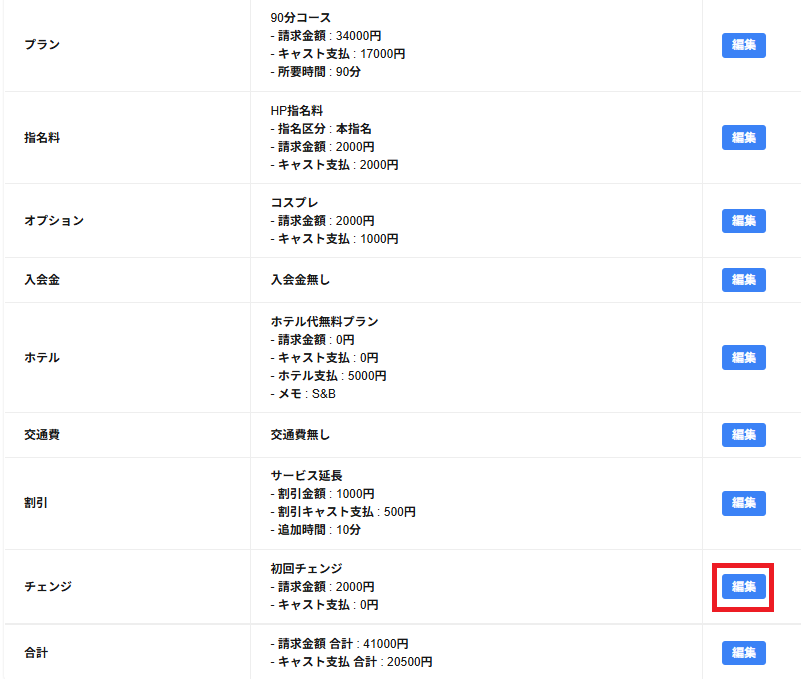
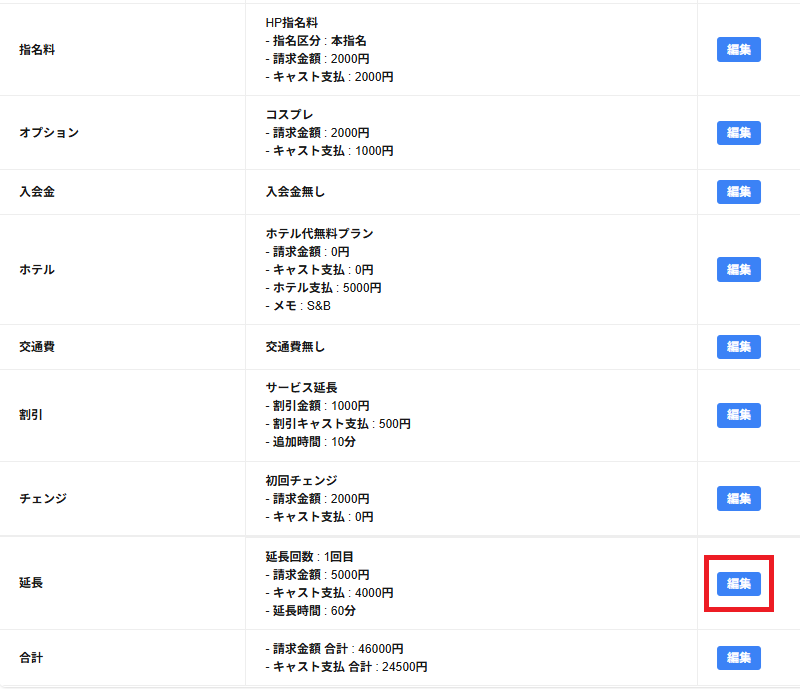
予約接客詳細完了

diff --git a/docs/list/booking_attend_list/detail/2/index.html b/docs/list/booking_attend_list/detail/2/index.html
@@ -11,7 +11,7 @@
 <p></p>
 <p></p>
 <p>・キャスト</p>
-<p><a href="/list/booking_attend_list/cast">キャスト詳細画面が表示されます。</a></p>
+<p><a href="list/booking_attend_list/cast">キャスト詳細画面が表示されます。</a></p>
 <p>予約・接客のキャストの編集と開始日付/時刻と終了日付/時刻の編集ができます。</p>
 <p></p>
 <p>※未選択 予約の場合は編集の列に割当と表示されます。</p>
@@ -19,72 +19,72 @@
 <p></p>
 <p></p>
 <p>・顧客</p>
-<p><a href="/list/booking_attend_list/customer">顧客編集が表示されます。</a></p>
+<p><a href="list/booking_attend_list/customer">顧客編集が表示されます。</a></p>
 <p>顧客の追加と編集をすることができます。</p>
 <p></p>
 <p></p>
 <p>・予約方法</p>
-<p><a href="/list/booking_attend_list/apply">予約方法編集が表示されます。</a></p>
+<p><a href="list/booking_attend_list/apply">予約方法編集が表示されます。</a></p>
 <p>予約方法 を編集することができます。</p>
 <p></p>
 <p></p>
 <p>・支払方法</p>
-<p><a href="/list/booking_attend_list/payment">支払方法編集が表示されます。</a></p>
+<p><a href="list/booking_attend_list/payment">支払方法編集が表示されます。</a></p>
 <p>支払方法を編集することができます。</p>
 <p>※店舗情報で支払い方法を未使用にしている場合は、支払方法の項目は表示されません。</p>
 <p></p>
 <p></p>
 <p>・プラン</p>
-<p><a href="/list/booking_attend_list/plan">プラン編集が表示されます。</a></p>
+<p><a href="list/booking_attend_list/plan">プラン編集が表示されます。</a></p>
 <p>プランを編集することができます。</p>
 <p></p>
 <p></p>
 <p>・指名料</p>
-<p><a href="/list/booking_attend_list/reservation">指名料編集が表示されます。</a></p>
+<p><a href="list/booking_attend_list/reservation">指名料編集が表示されます。</a></p>
 <p>指名料を編集することができます。</p>
 <p></p>
 <p></p>
 <p>・オプション</p>
-<p><a href="/list/booking_attend_list/option">オプション編集が表示されます。</a></p>
+<p><a href="list/booking_attend_list/option">オプション編集が表示されます。</a></p>
 <p>オプションを編集することができます。</p>
 <p></p>
 <p></p>
 <p>・入会金</p>
-<p><a href="/list/booking_attend_list/joining">入会金編集が表示されます。</a></p>
+<p><a href="list/booking_attend_list/joining">入会金編集が表示されます。</a></p>
 <p>入会金を編集することができます。</p>      
 <p>※店舗情報で入会金を未使用にしている場合は、入会金の項目は表示されません。</p>           
 <p></p>
 <p></p>
 <p>・ホテル</p>
-<p><a href="/list/booking_attend_list/hotel">ホテル編集が表示されます。</a></p>
+<p><a href="list/booking_attend_list/hotel">ホテル編集が表示されます。</a></p>
 <p>ホテルを編集することができます。</p>
 <p>※店舗情報でホテルを未使用にしている場合は、ホテルの項目は表示されません。</p>
 <p></p>
 <p></p>
 <p>・交通費</p>
-<p><a href="/list/booking_attend_list/transportation">交通費編集が表示されます。</a></p>
+<p><a href="list/booking_attend_list/transportation">交通費編集が表示されます。</a></p>
 <p>交通費を編集することができます。</p>
 <p>※店舗情報で交通費を未使用にしている場合は、交通費の項目は表示されません。</p>           
 <p></p>
 <p></p>
 <p>・割引</p>
-<p><a href="/list/booking_attend_list/discount">割引編集が表示されます。</a></p>
+<p><a href="list/booking_attend_list/discount">割引編集が表示されます。</a></p>
 <p>割引を編集することができます。</p>       
 <p></p>
 <p></p>
 <p>・チェンジ</p>
-<p><a href="/list/booking_attend_list/change">チェンジ編集が表示されます。</a></p>
+<p><a href="list/booking_attend_list/change">チェンジ編集が表示されます。</a></p>
 <p>チェンジを編集することができます。</p>
 <p>※チェンジをした接客の接客詳細のみに表示されます。</p>
 <p></p>
 <p></p>
 <p>・延長</p>
-<p><a href="/list/booking_attend_list/extended">延長編集が表示されます。</a></p>
+<p><a href="list/booking_attend_list/extended">延長編集が表示されます。</a></p>
 <p>延長を編集することができます。</p>
 <p>※延長をした接客の接客詳細のみに表示されます。</p>
 <p></p>
 <p></p>
 <p>・合計</p>
-<p><a href="/list/booking_attend_list/sum">合計編集が表示されます。</a></p>
+<p><a href="list/booking_attend_list/sum">合計編集が表示されます。</a></p>
 <p>合計を編集することができます。</p>
 <img src="./2.png" alt="STEP2の操作画面">

diff --git a/docs/list/booking_attend_list/extended/2/index.html b/docs/list/booking_attend_list/extended/2/index.html
@@ -1,3 +1,13 @@
-<!-- title: 予約・接客詳細のチェンジの編集・削除 -->
-<P>チェンジ編集の画面の上部にはチェンジ選択・自由入力の選択のタブが表示されます。</p>
+<!-- title: 予約・接客詳細の延長の編集・削除 -->
+<P>延長編集の画面に延長の以下の項目が表示されます。</p>
+<P>表示された項目を入力し延長として扱うことができます。</p>
+<P></p>
+<P>・請求金額</p>
+<P>延長の請求金額を入力することができます。</p>
+<P>・キャスト支払</p>
+<P>延長のキャスト支払を入力することができます。</p>
+<P>・延長時刻(分)</p>
+<P>延長の延長時刻(分)を入力することができます。</p>
+<P></p>
+<P>複数回延長してる場合は、延長画面の左上に(回数)回目と表示されます。</p>
 <img src="./2.png" alt="STEP2の操作画面">

diff --git a/docs/list/booking_attend_list/extended/4/index.html b/docs/list/booking_attend_list/extended/4/index.html
@@ -1,11 +1,4 @@
-<!-- title: 自由入力のタブの場合 -->
-<p>自由入力のタブを選択する場合、以下の項目が表示されます。</p>
-<p>表示された項目を入力しチェンジとして扱うことができます。</p>
-<p></p>
-<p>・請求金額</p>
-<p>チェンジの請求金額を入力することができます。</p>
-<p>・キャスト支払</p>
-<p>チェンジのキャスト支払を入力することができます。</p>
-<p>・追加時刻(分)</p>
-<p>チェンジの追加時刻(分)を入力することができます。</p>
+<!-- title: 延長を削除する場合 -->
+<p>画面右下に削除が表示されます。</p>
+<p>削除クリックすると、該当の予約・接客の延長削除することができます。</p>
 <img src="./4.png" alt="STEP4の操作画面">

diff --git a/docs/list/booking_attend_list/extended/3/index.html b/docs/list/booking_attend_list/extended/3/index.html
@@ -1,6 +1,4 @@
-<!-- title: チェンジ選択のタブの場合 -->
-<p>チェンジ選択のタブを選択する場合、登録されているチェンジが一覧で表示されます。</p>
-<p>価格表示を選択すると、請求金額・キャスト支払・追加時刻(分)が表示されます。</p>
-<p>※キャスト支払はチェンジ後キャストへの支払が表示されます。</p>
-<p>チェンジの一覧からチェンジを選択します。</p>
+<!-- title: 延長を変更する場合 -->
+<p>画面左下に更新が表示されます。</p>
+<p>更新クリックすると、入力した延長で更新することができます。</p>
 <img src="./3.png" alt="STEP3の操作画面">

diff --git a/docs/list/booking_attend_list/sum/2/index.html b/docs/list/booking_attend_list/sum/2/index.html
@@ -1,0 +1,11 @@
+<!-- title: 予約・接客詳細の合計の編集・削除 -->
+<P>合計編集の画面に合計の以下の項目が表示されます。</p>
+<P>表示された項目を入力し合計として扱うことができます。</p>
+<P></p>
+<P>・請求金額</p>
+<P>合計の請求金額を入力することができます。</p>
+<P>・キャスト支払</p>
+<P>合計のキャスト支払を入力することができます。</p>
+<P></p>
+<P>※他項目で変更された請求金額、キャスト支払の合計に関しては自動的にこちらの項目に反映されています。</p>
+<img src="./2.png" alt="STEP2の操作画面">

diff --git a/docs/list/booking_attend_list/extended/1/index.html b/docs/list/booking_attend_list/extended/1/index.html
@@ -1,3 +1,4 @@
-<!-- title: チェンジを選択する -->
-<p>チェンジの行の編集をクリックします。</p>
+<!-- title: 延長を選択する -->
+<p>編集したい延長の行の編集をクリックします。</p>
+<p>複数回延長をした場合、延長毎に行が区切られて延長が表示されます。</p>
 <img src="./1.png" alt="STEP1の操作画面">

diff --git a/docs/list/booking_attend_list/sum/index.html b/docs/list/booking_attend_list/sum/index.html
@@ -17,7 +17,7 @@
   <main class="main-content">
   <div class="content">
   <!-- ページタイトル -->
-  <div class="page-title">予約・接客詳細の延長の編集について</div>
+  <div class="page-title">予約・接客詳細の合計の編集について</div>
 
   <!-- パンくず -->
   <nav class="breadcrumb" id="breadcrumb"></nav>

diff --git a/docs/list/booking_attend_list/sum/3/index.html b/docs/list/booking_attend_list/sum/3/index.html
@@ -1,0 +1,4 @@
+<!-- title: 合計を変更する場合 -->
+<p>画面左下に更新が表示されます。</p>
+<p>更新クリックすると、入力した合計で更新することができます。</p>
+<img src="./3.png" alt="STEP3の操作画面">

diff --git a/docs/list/booking_attend_list/sum/1/index.html b/docs/list/booking_attend_list/sum/1/index.html
@@ -1,0 +1,3 @@
+<!-- title: 合計を選択する -->
+<p>編集したい合計の行の編集をクリックします。</p>
+<img src="./1.png" alt="STEP1の操作画面">
